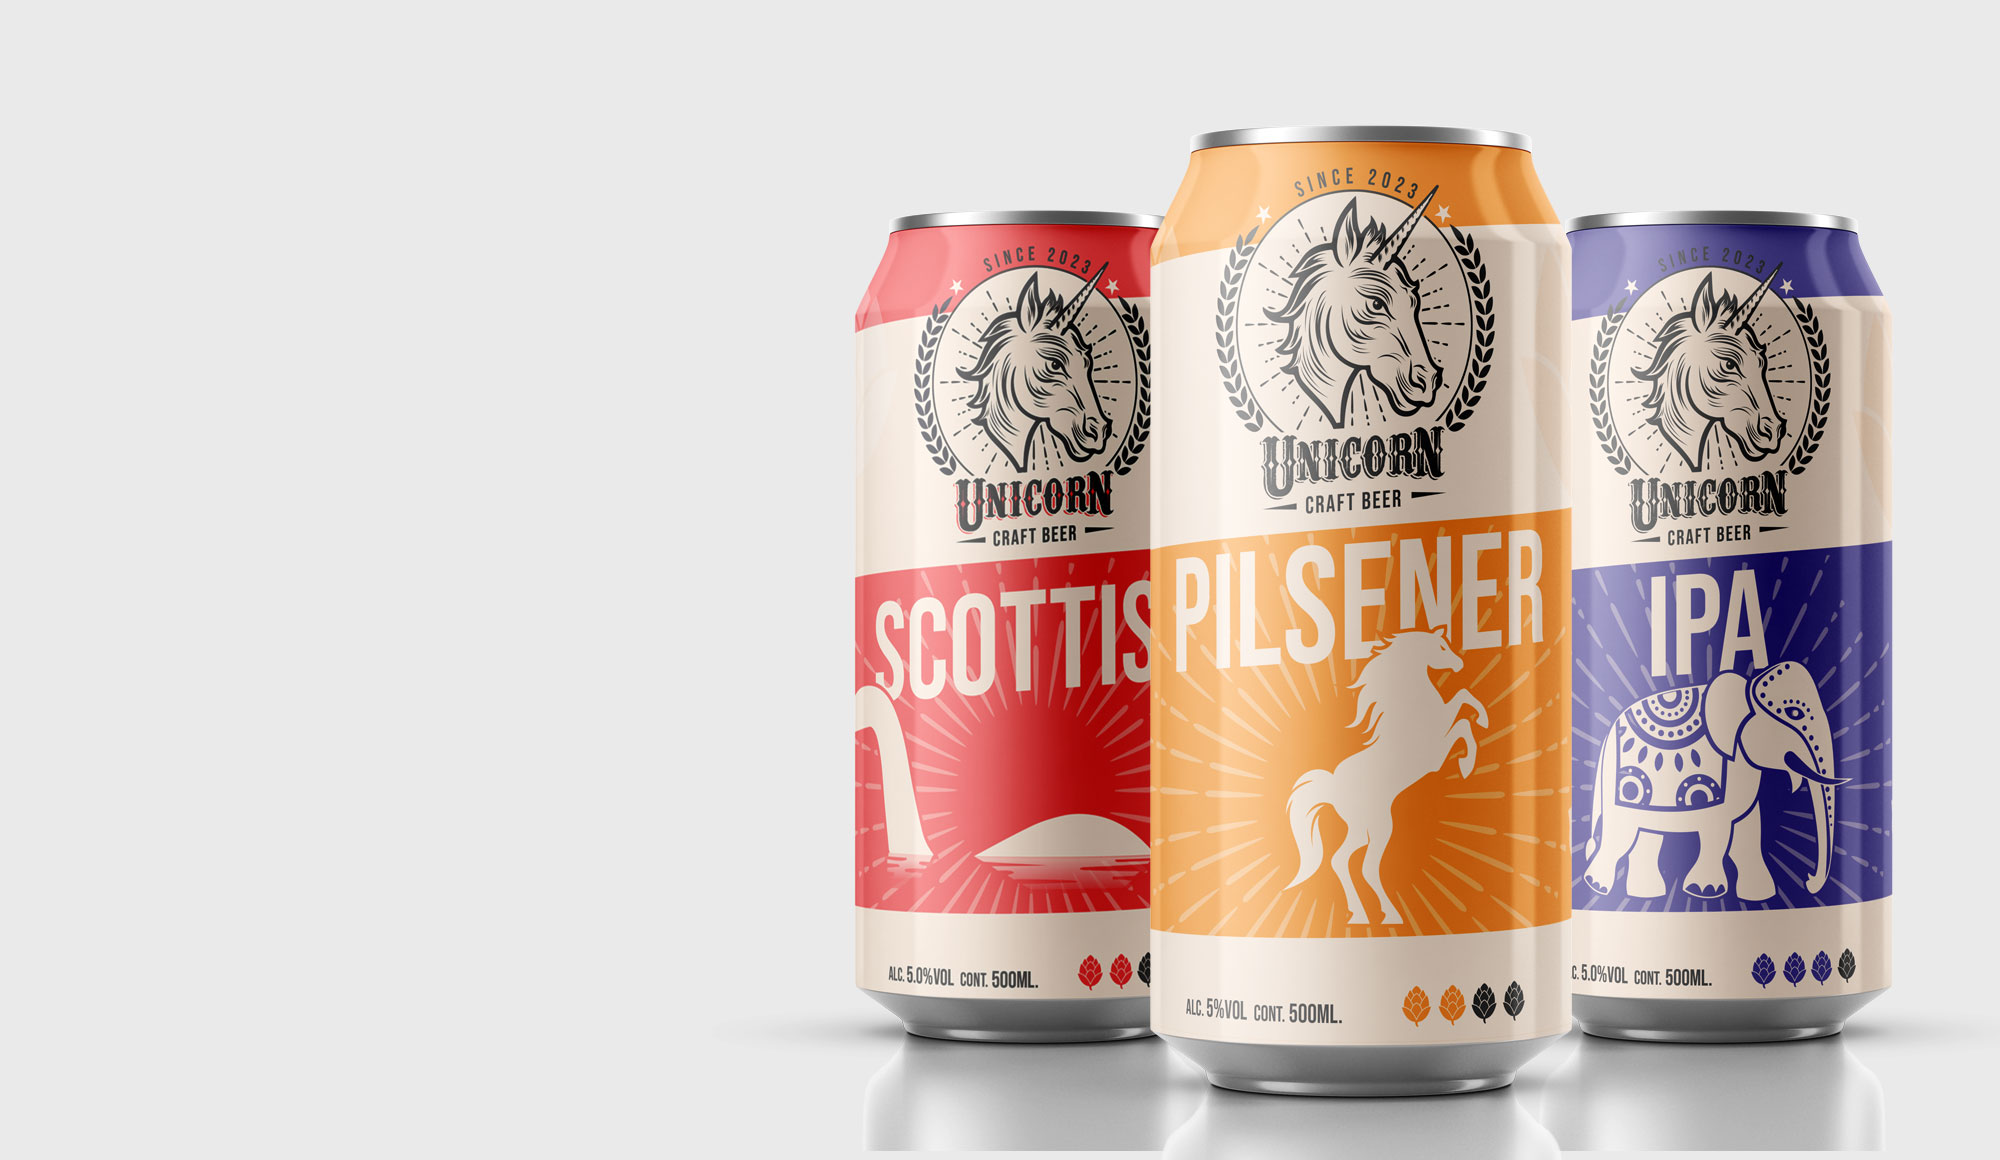
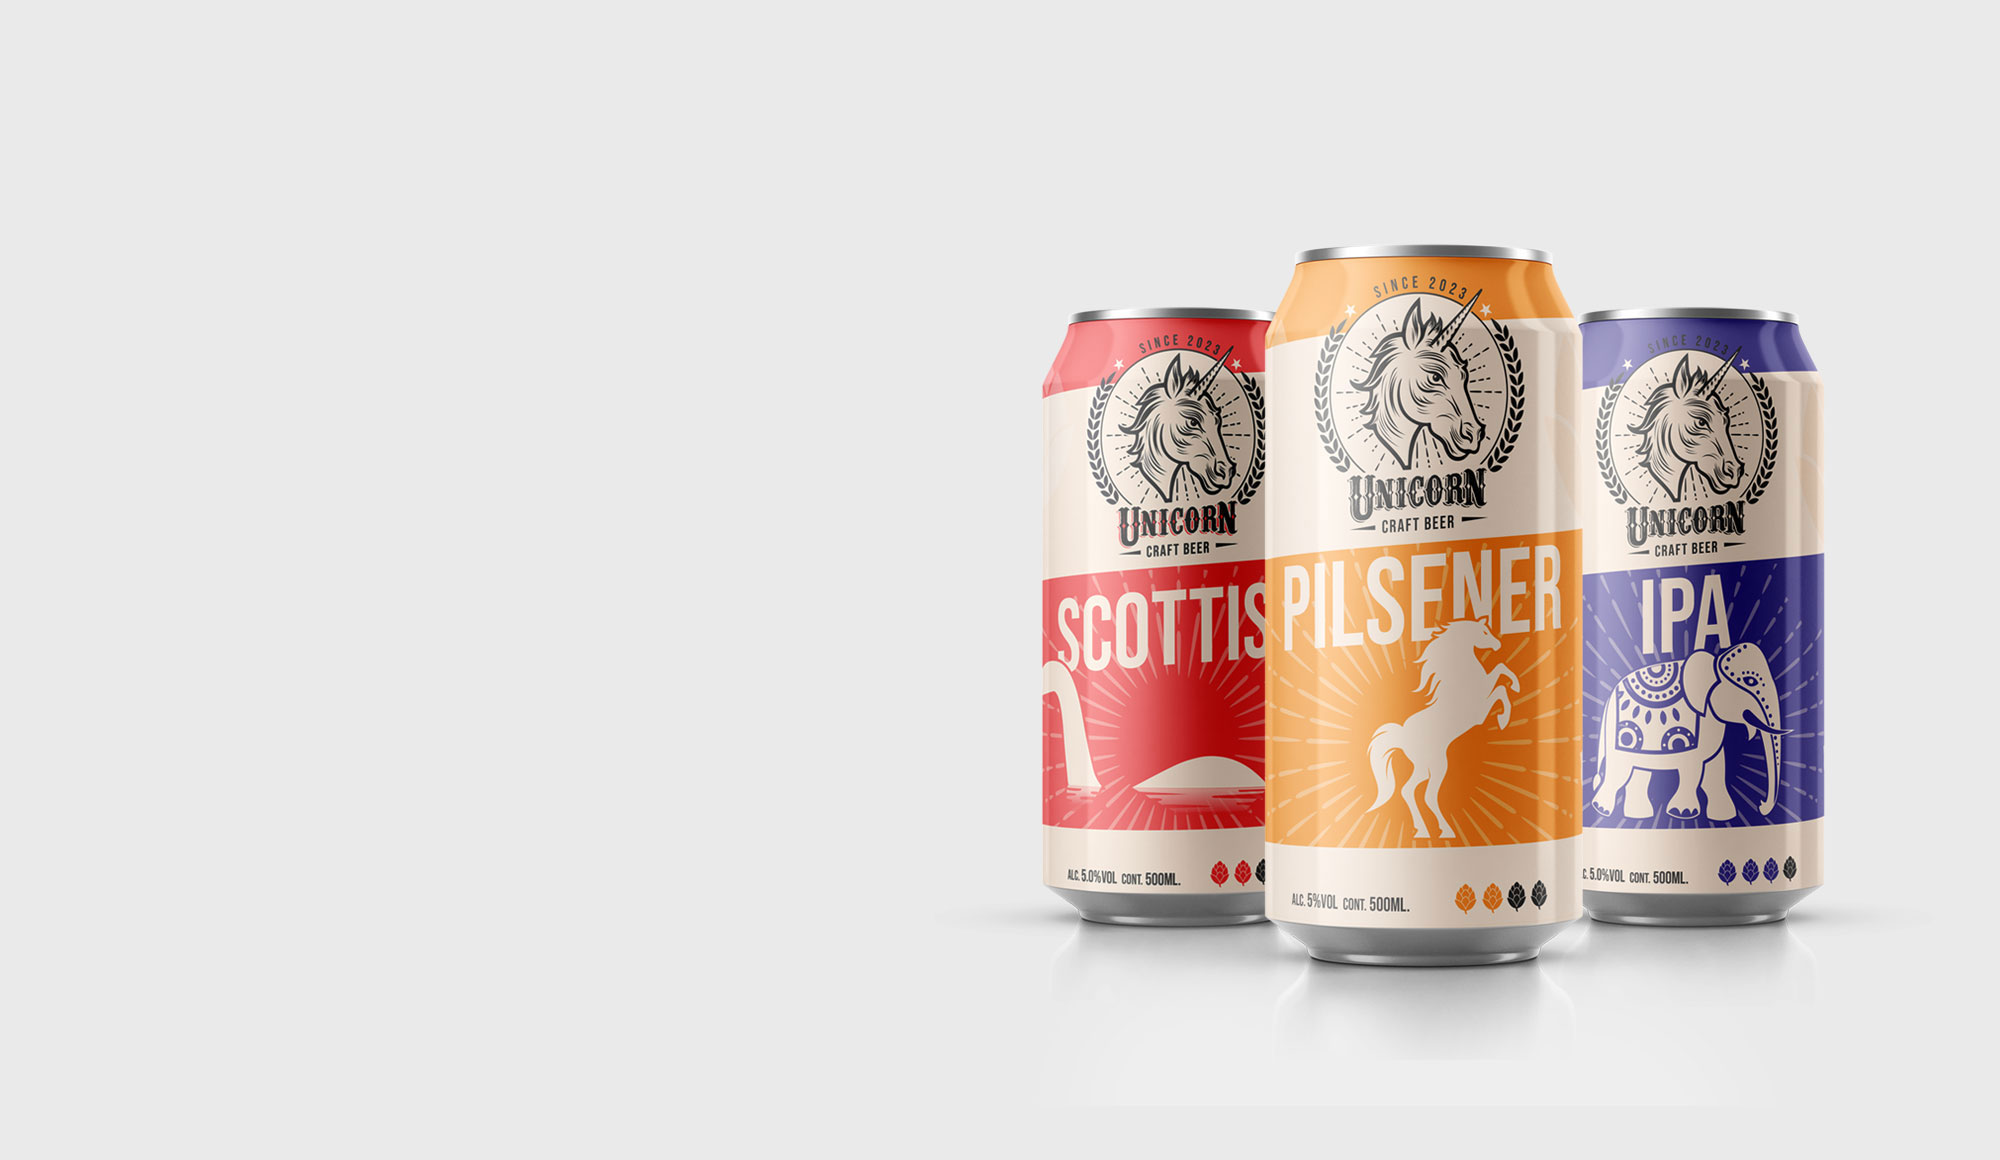
Shop background

diff --git a/src/hook/useSetProductColor.js b/src/hook/useSetProductColor.js
@@ -1,19 +1,19 @@
 export const useSetProductColor = (style) => {
   switch (style) {
     case "Scottish":
-      return "var(--red)";
+      return "radial-gradient(var(--lightRed), var(--red))";
     case "Pilsener":
-      return "var(--orange)";
+      return "radial-gradient(var(--lightOrange), var(--orange))";
     case "Blonde":
-      return "var(--yellow)";
+      return "radial-gradient(var(--lightYellow), var(--yellow))";
     case "APA":
-      return "var(--green)";
+      return "radial-gradient(var(--lightGreen), var(--green))";
     case "ZERO":
-      return "var(--blue)";
+      return "radial-gradient(var(--lightBlue), var(--blue))";
     case "IPA":
-      return "var(--violet)";
+      return "radial-gradient(var(--lightViolet), var(--violet))";
     case "Stout":
-      return "var(--graphite)";
+      return "radial-gradient(var(--lightGraphite), var(--graphite))";
 
     default:
       break;

diff --git a/src/index.css b/src/index.css
@@ -1,25 +1,25 @@
 :root {
   --green: #8fbd6d;
-  --lightGreen: #b2ef87;
+  --lightGreen: #c5fd9d;
 
   --blue: #597ec9;
-  --lightBlue: #6994eb;
+  --lightBlue: #6696e3;
 
   --violet: #554ba0;
-  --lightViolet: #7a6aef;
+  --lightViolet: #8558c4;
 
   --orange: #ff9522;
-  --lightOrange: #feaf5b;
+  --lightOrange: #fed980;
 
   --yellow: #ffc550;
   --lightYellow: #fed990;
   --darkRed: #ff000d;
   --red: #ff434d;
-  --lightRed: #fe8389;
+  --lightRed: #f56c6c;
   --lightGrey: #fff1f1;
   --white: #ffffff;
-  --graphite: #333333;
-  --lightGraphite: #343333;
+  --graphite: #242424;
+  --lightGraphite: #525252;
 }
 h1,h2,h3,h4,h5,h6, a{
   font-family: 'Bebas Neue', sans-serif;

diff --git a/src/Features/Shop/components/Product.jsx b/src/Features/Shop/components/Product.jsx
@@ -15,7 +15,7 @@ function Product({ product }) {
         md={6}
         lg={4}
         className="d-flex flex-column justify-content-evenly text-center text-white product-card p-0"
-        style={{ backgroundColor: bgColor }}
+        style={{ background: bgColor }}
       >
         <Link to="/product">
           <img src={photos[0]} alt={`${product.name} image`} className="product-img" />

diff --git a/src/Features/Shop/styles.css b/src/Features/Shop/styles.css
@@ -18,7 +18,7 @@
   left: 0;
   width: 100%;
   height: 100%;
-  background: linear-gradient(to bottom, rgba(0, 0, 0, 0.8), transparent);
+  background: linear-gradient(to bottom, rgb(0, 0, 0, 0.9), transparent);
 }
 
 .content {
